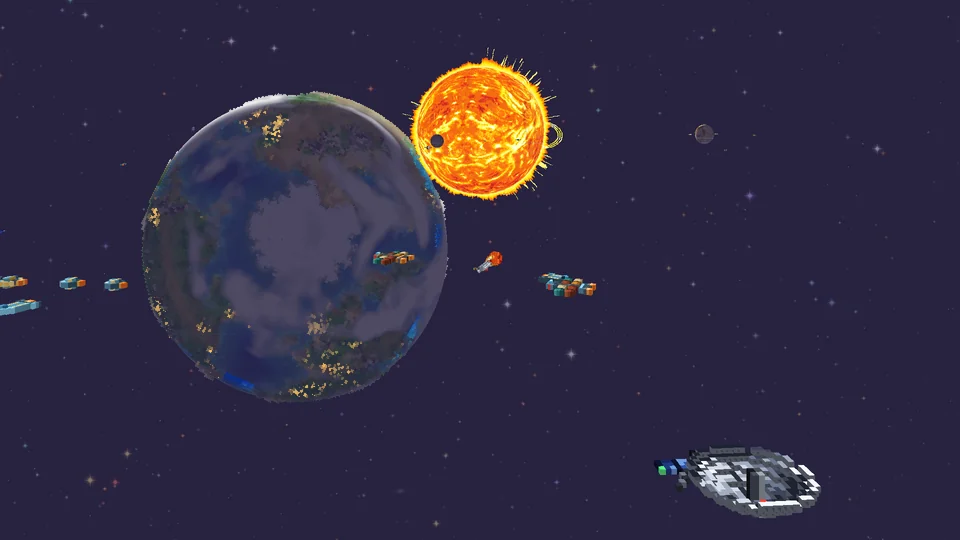
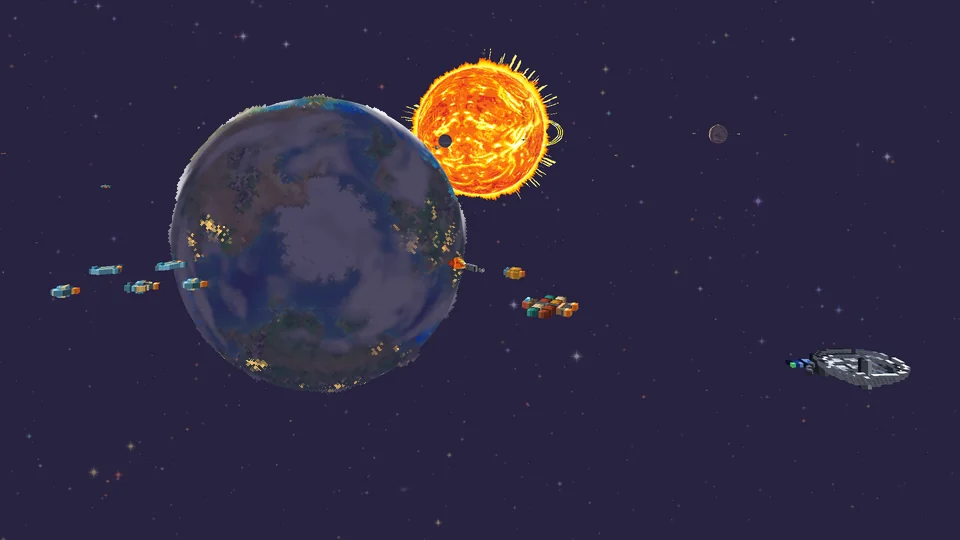
Hero: Colony ship launch, clear of the traffic

diff --git a/index.html b/index.html
@@ -39,7 +39,7 @@
     <img src="img/terra-launch-transit.webp"
          srcset="img/terra-launch-transit-960.webp 960w, img/terra-launch-transit.webp 1920w"
          sizes="100vw" width="1920" height="1080"
-         alt="A rocket climbs off Terra's edge as the Sun rises behind it, the moon Lune crossing its face">
+         alt="A Colony ship's booster stack climbs off Terra's edge as the Sun rises behind it, the moon Lune crossing its face">
   </div>
 
   <div class="wrap">
